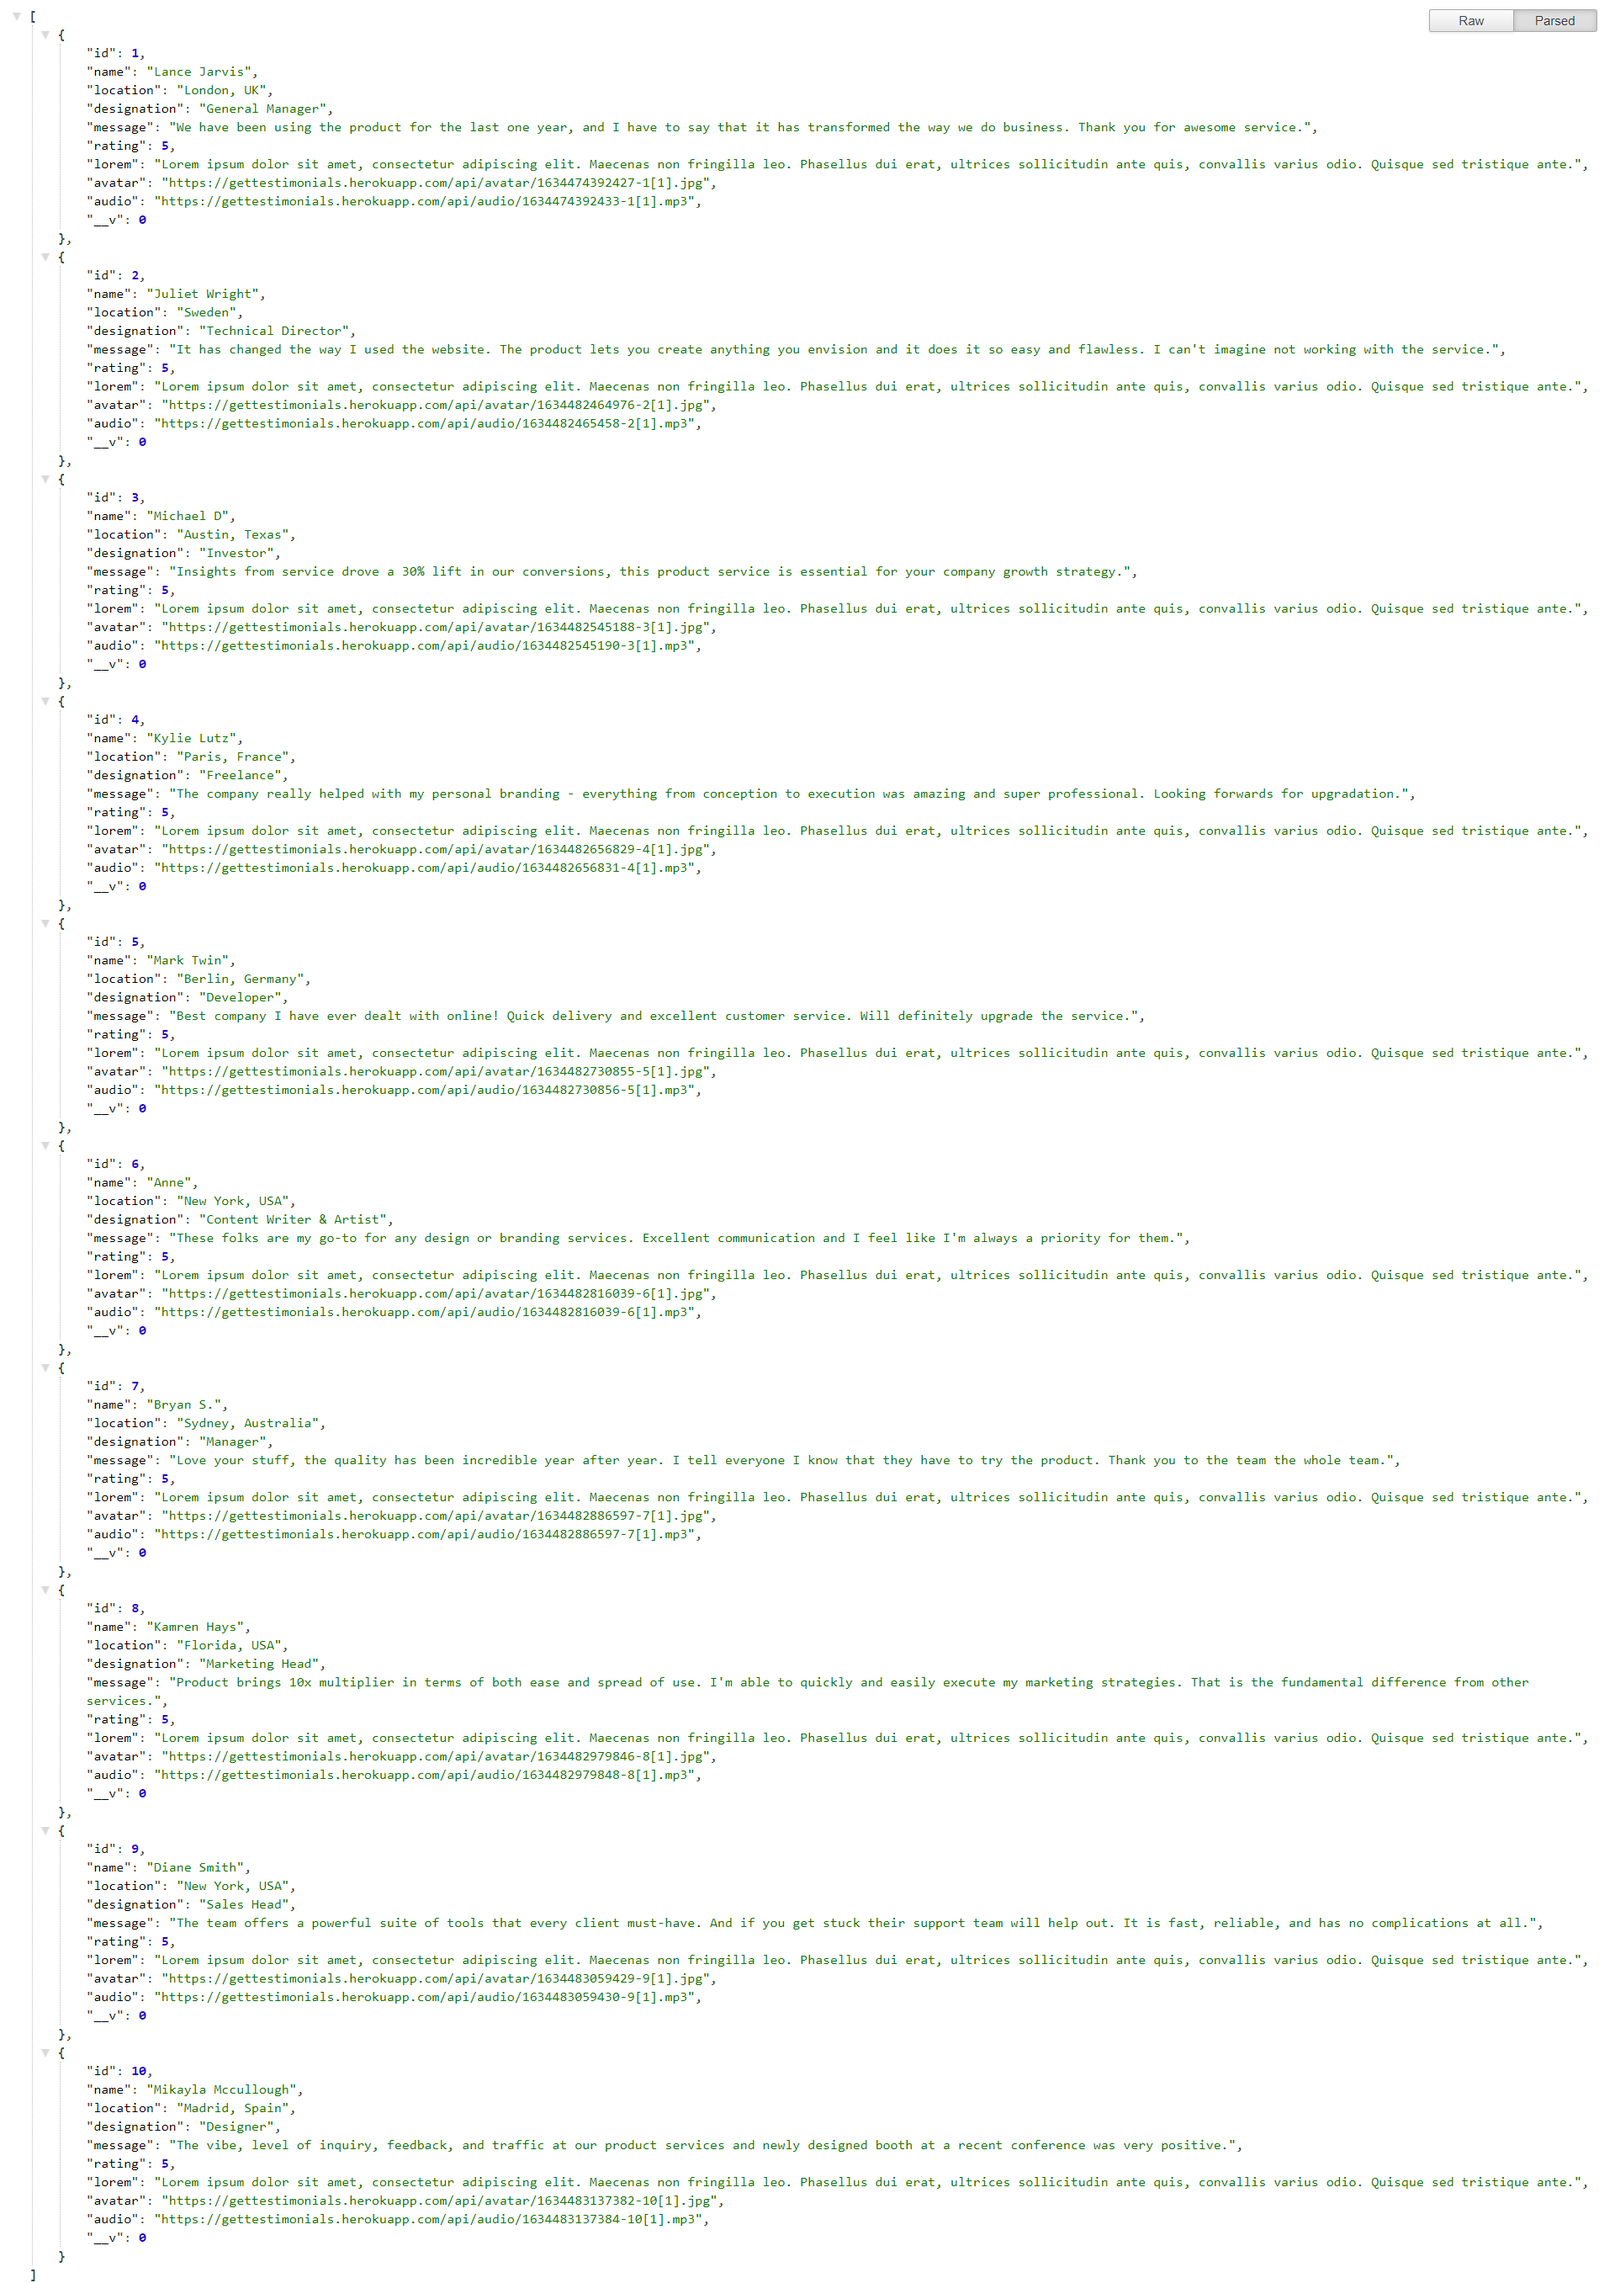
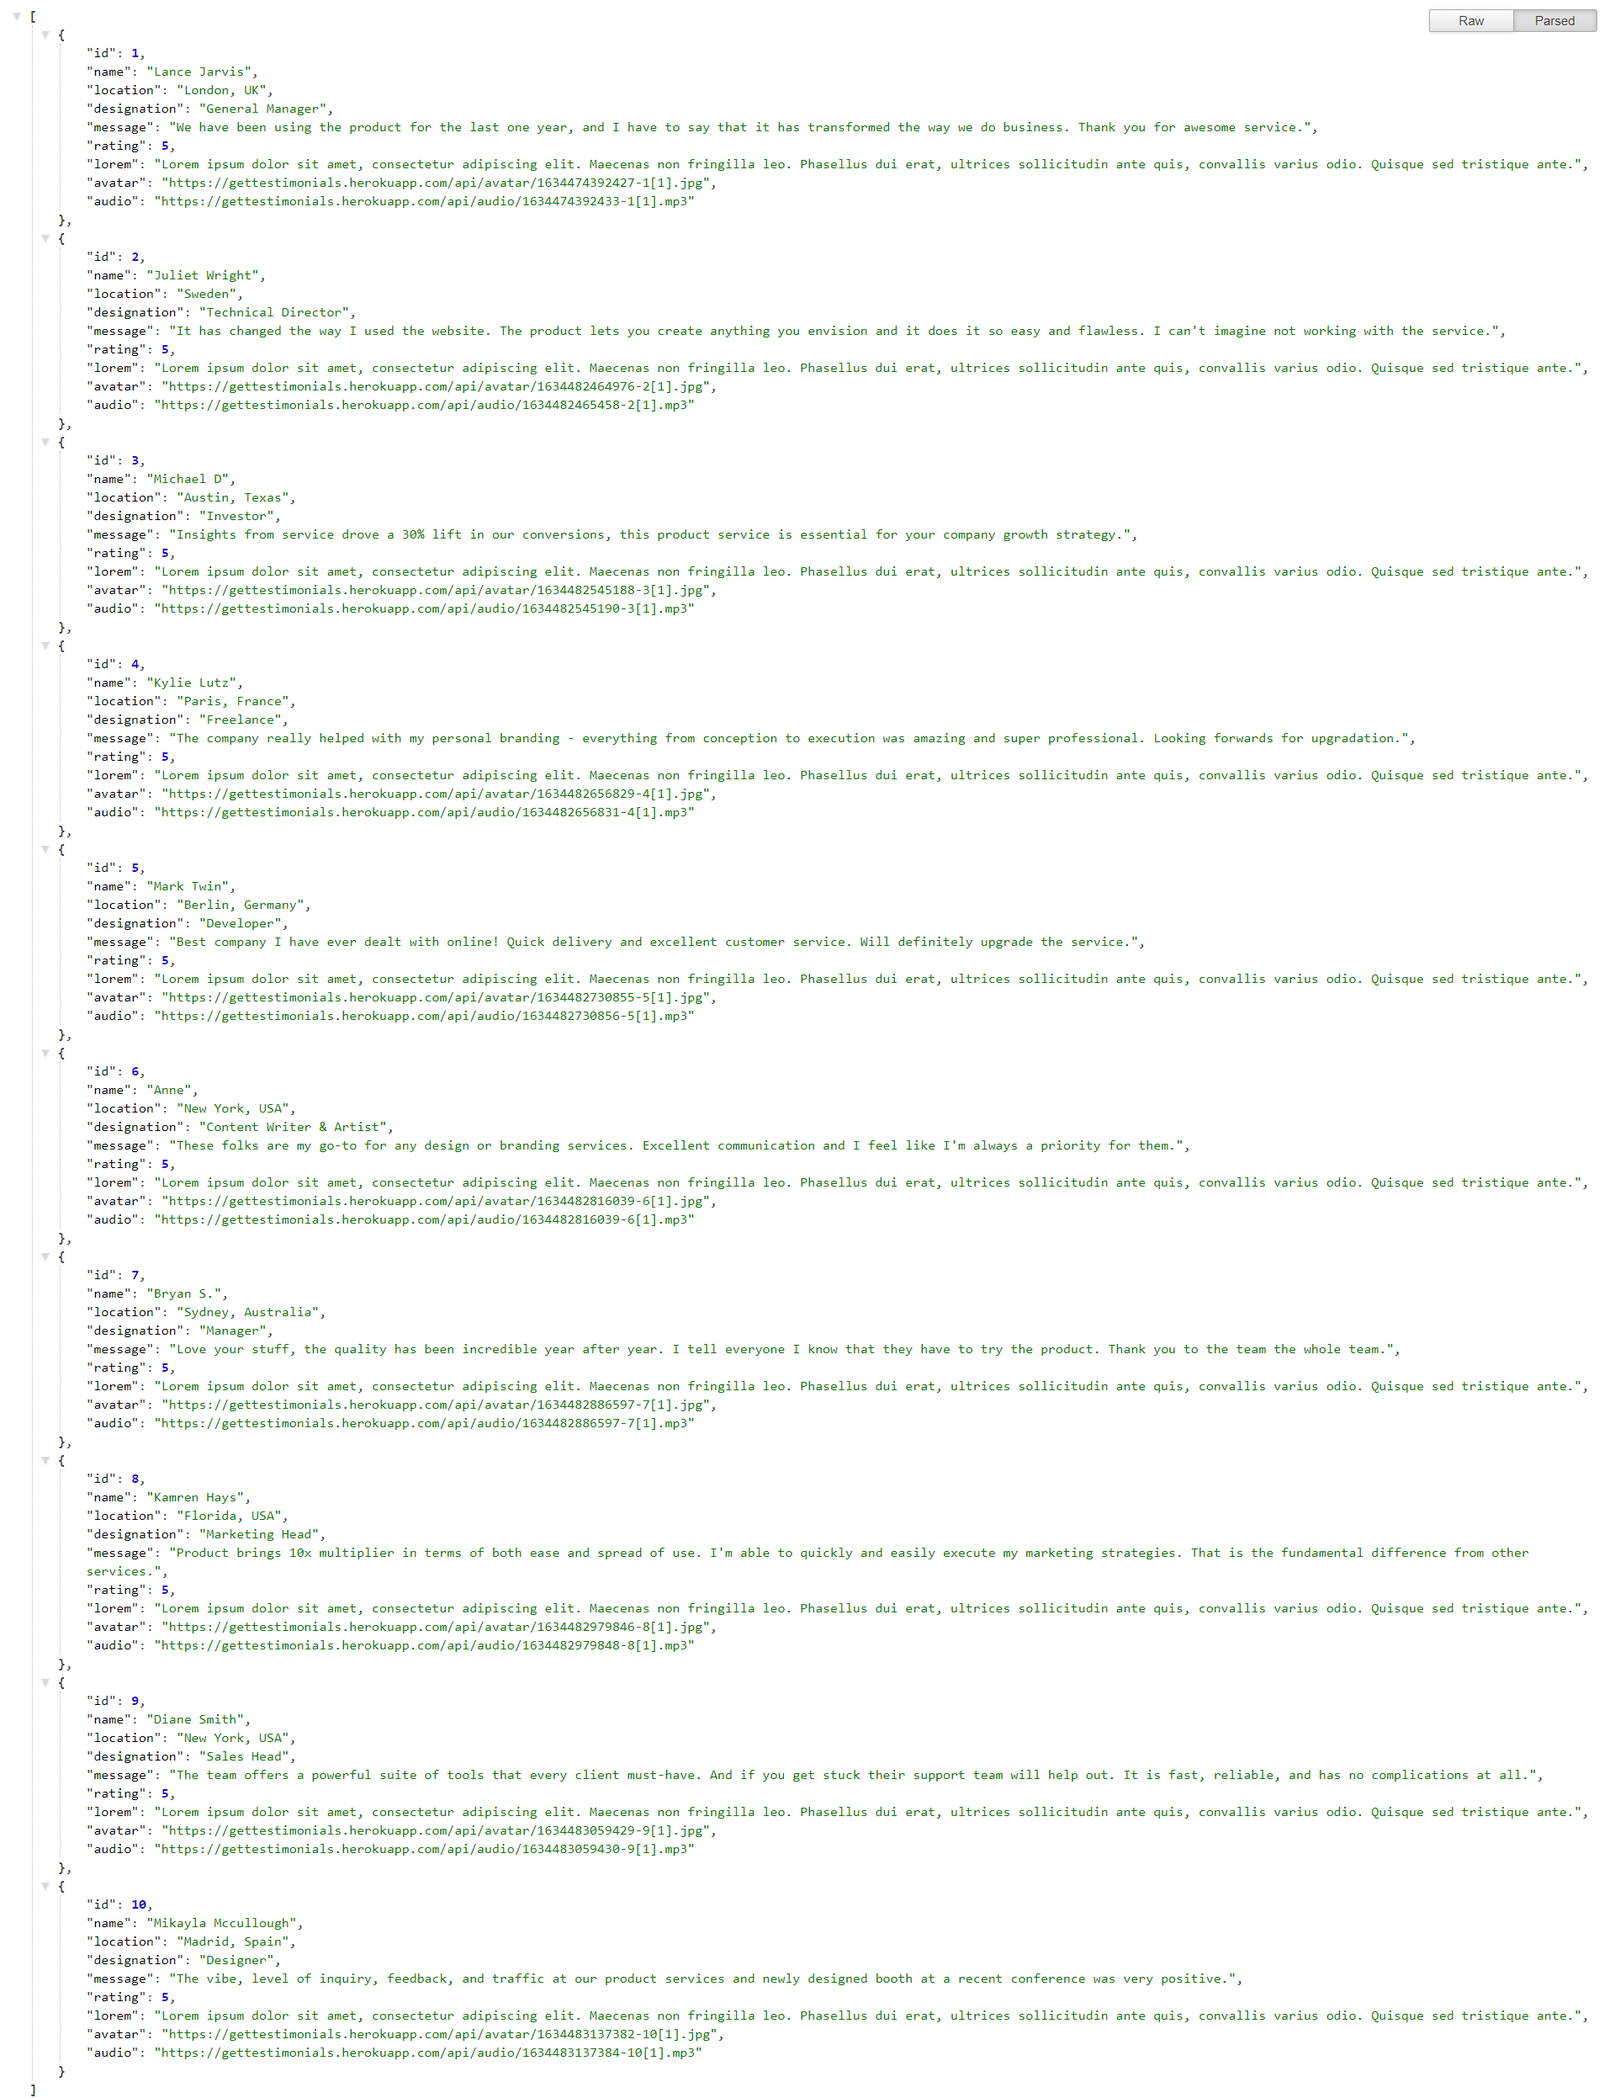
update images on home page

diff --git a/controllers/getTestimonialByID.controller.js b/controllers/getTestimonialByID.controller.js
@@ -3,7 +3,7 @@ import UserTestimonials from "../model/userTestimonial.model.js";
 const getTestimonialByID = async (req,res) =>{
     try {
         const id = Number(req.params.id);
-        UserTestimonials.findOne({ id }, { '_id': 0 })
+        UserTestimonials.findOne({ id }, { '_id': 0, '__v': 0 })
             .then((data) => {
                 if (!data) {
                     return res.status(400).send({ status: "failed!", message: `user testimonial with id=${id} not found.` })

diff --git a/controllers/getAllTestimonials.controller.js b/controllers/getAllTestimonials.controller.js
@@ -2,7 +2,7 @@ import UserTestimonials from "../model/userTestimonial.model.js";
 
 const getAllTestimonials = async (req, res) => {
     try {
-        UserTestimonials.find({}, { '_id': 0 })
+        UserTestimonials.find({}, { '_id': 0, '__v': 0 })
             .sort({ id: 1 })
             .sort({ lorem: -1 })
             .then((data) => {

diff --git a/readme.md b/readme.md
@@ -35,7 +35,7 @@ Tired of copy and pasting lorem user's testimonial text which doesn't give the f
 
 Based on ID from 1 to 10 get a particular user data. Note here odd ID are male person testimonial data while even ID are female testimonial data. Below is exmaple of fetching the first user data.
 
-![one](./public/images/one_response_in_readme.png)
+![one](./public/images/one_response.png);
 
 ## API implementation
 
